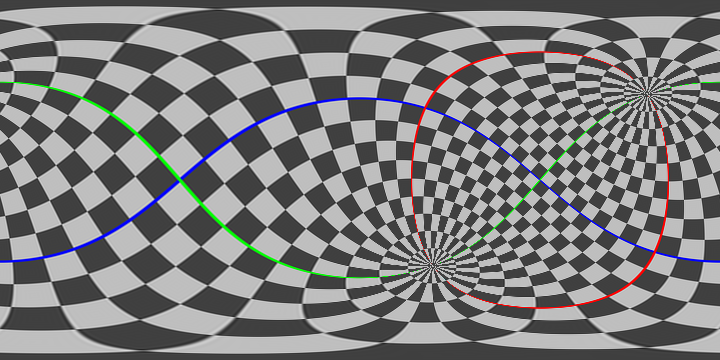
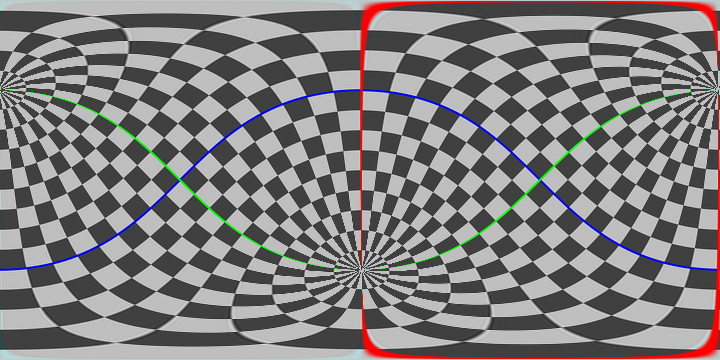
quitar

diff --git a/online_image_editing/templates/transformacion.html b/online_image_editing/templates/transformacion.html
@@ -34,11 +34,12 @@ $def with (a,b,c,d,loc)
     </div>
   
       <div class="row" style="margin:5px">
-         <div class="col-sm-5"></div>
-         <div class="col-sm-4">
+         <div class="col-sm-3"></div>
+         <div class="col-sm-6">
            <div class="btn-group" role="group">
             <input type="button" class="btn" value="Transformacion de Cayley" onclick="cayley()">
-            <input type="button" class="btn" value="Hacer Zoom" onclick="zoom()">
+            <input type="button" class="btn" value="Zoom in Izquierda" onclick="zoom_iz()">
+            <input type="button" class="btn" value="Zoom out Centro" onclick="zoom_ce()">
             <input type="button" class="btn" value="Tres Puntos" onclick="puntos()">
             </div>
          </div> 
@@ -53,13 +54,13 @@ $def with (a,b,c,d,loc)
            <div class="col-sm-6">
               <div class="input-group">
                 <span class="input-group-addon" id="basic-addon3">a = </span>
-                <input type="text" class="form-control" name="a" aria-describedby="basic-addon3" value="$a">
+                <input type="text" class="form-control" id="a" name="a" aria-describedby="basic-addon3" value="$a">
                 <span class="input-group-addon" id="basic-addon3">b = </span>
-                <input type="text" class="form-control" name="b" aria-describedby="basic-addon3" value="$b">
+                <input type="text" class="form-control" id="b" name="b" aria-describedby="basic-addon3" value="$b">
                 <span class="input-group-addon" id="basic-addon3">c = </span>
-                <input type="text" class="form-control" name="c" aria-describedby="basic-addon3" value="$c">
+                <input type="text" class="form-control" id="c" name="c" aria-describedby="basic-addon3" value="$c">
                 <span class="input-group-addon" id="basic-addon3">d = </span>
-                <input type="text" class="form-control" name="d" aria-describedby="basic-addon3" value="$d">
+                <input type="text" class="form-control" id="d" name="d" aria-describedby="basic-addon3" value="$d">
                 <input type="hidden" name="ref" id="refrescar" value="0">
 
               </div>

diff --git a/online_image_editing/static/script.js b/online_image_editing/static/script.js
@@ -18,22 +18,33 @@ function cayley()
   
 }
 
-function zoom()
+function zoom_iz()
 {
     document.getElementById('a').value = "1.5";
-    document.getElementById('b').value = "0.5 + 0.25i";
-    document.getElementById('c').value = "0.25 + 0.5i";
+    document.getElementById('b').value = "0.25 - 0.4i";
+    document.getElementById('c').value = "0.25 + 0.4i";
     document.getElementById('d').value = "1.5";
 
   
 }
 
+function zoom_ce()
+{
+    document.getElementById('a').value = "0.75";
+    document.getElementById('b').value = "-0.25 - 0.0001i";
+    document.getElementById('c').value = "-0.25 + 0.0001i";
+    document.getElementById('d').value = "0.75";
+
+  
+}
+
+
 function puntos()
 {
-    document.getElementById('a').value = "0.85 + 0.2i";
+    document.getElementById('a').value = "0.85 - 0.35i";
     document.getElementById('b').value = "0.35 - 0.15i";
     document.getElementById('c').value = "-0.35 + 0.15i";
-    document.getElementById('d').value = "0.85 + 0.2i";
+    document.getElementById('d').value = "0.85 - 0.35i";
 
   
 }

diff --git a/online_image_editing/bin/app.py b/online_image_editing/bin/app.py
@@ -14,7 +14,7 @@ render = web.template.render('templates/')
 
 class Index(object):
     def GET(self):
-        return render.transformacion(a="1",b="i",c="1",d="-i",loc="static/inicial.png")
+        return render.transformacion(a="1",b="0",c="0",d="1",loc="static/inicial.png")
 
     def POST(self):
         
@@ -26,6 +26,7 @@ class Index(object):
             return  render.transformacion(a= form.a, b=form.b, c=form.c, d=form.d, loc = "static/inicial.png")
         else:    
             matrix = mbt.give_marix_from_string(form.a,form.b,form.c,form.d)
+            print(matrix)
             mbt.apply_matrix_to_image(matrix,'static/inicial.png','static/trans.png')
         
             time.sleep(2)

diff --git a/source/mobius_transformations.py b/source/mobius_transformations.py
@@ -326,14 +326,14 @@ def main():
     q = (90,630)
     
     #Hacer zoom
-    c = (180,240)
+    c = (180,360)
     
     #Hacer zoom
     c1 = (200,300)
     
-    M = three_points_to_three_points_pixel_coords(p1,q1,r1,p2,q2,r2,size)
+    #M = three_points_to_three_points_pixel_coords(p1,q1,r1,p2,q2,r2,size)
     #M = rotate_pixel_coords_p_to_q(p, q, size)
-    #M = zoom_in_on_pixel_coords(c, 2, size)
+    M = zoom_in_on_pixel_coords(c, 0.5, size)
     #M = rotate_around_axis_pixel_coord_p(q1,pi/2,size)
 
     #M = np.matrix([[1,-1j],[1,1j]])
